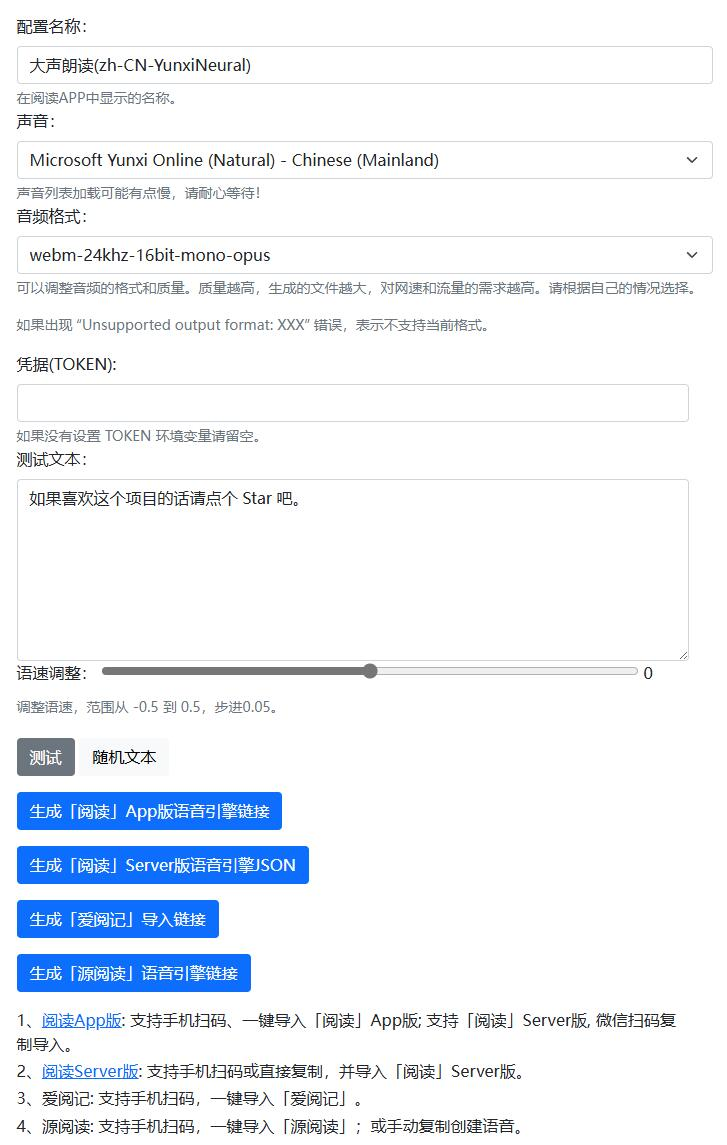
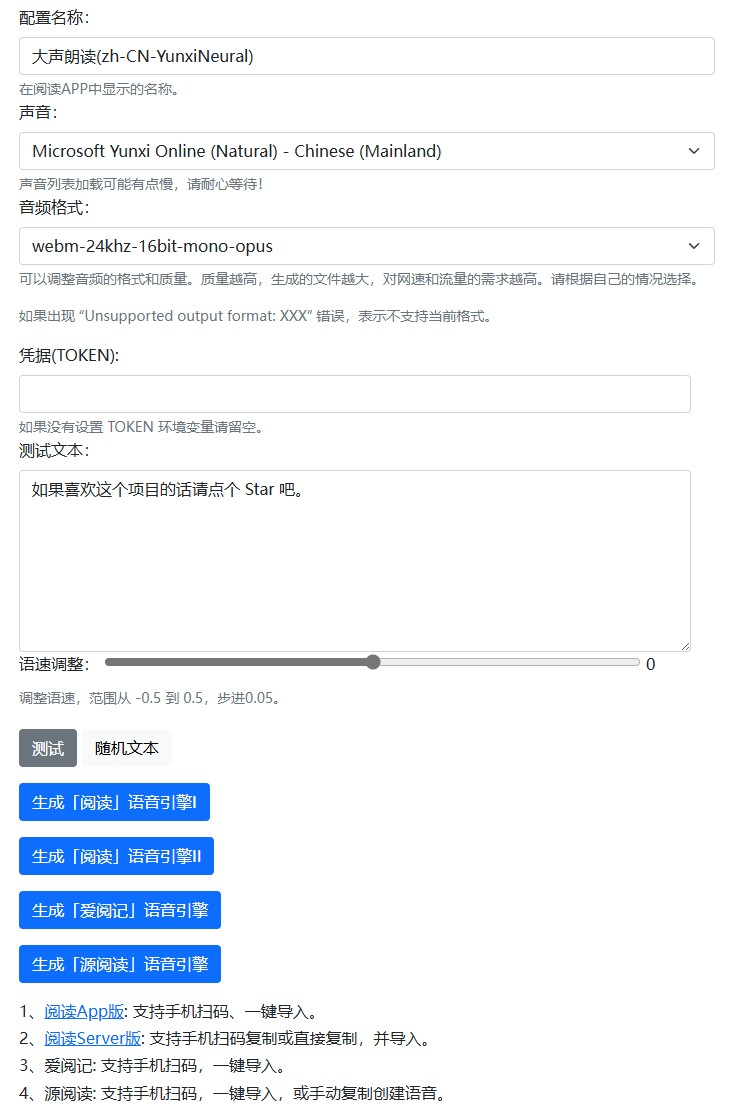
Add another interface to import the TTS engine into the legado app.

diff --git a/public/index.html b/public/index.html
@@ -108,26 +108,25 @@
               onclick="getDailyNews()">随机文本</button>
           </div>
           <div class="col-12 mb-3">
-            <button type="button" class="btn btn-primary" onclick='createlegadoApp()'>生成「阅读」App版语音引擎链接</button>
+            <button type="button" class="btn btn-primary" onclick='createlegadoApp()'>生成「阅读」语音引擎I</button>
           </div>
           <div class="col-12 mb-3">
-            <button type="button" class="btn btn-primary" onclick='createlegadoServer()'>生成「阅读」Server版语音引擎JSON</button>
+            <button type="button" class="btn btn-primary" onclick='createReaderServer()'>生成「阅读」语音引擎II</button>
           </div>
           <div class="col-12 mb-3">
-            <button type="button" class="btn btn-primary" onclick='createiRead()'>生成「爱阅记」导入链接</button>
+            <button type="button" class="btn btn-primary" onclick='createiRead()'>生成「爱阅记」语音引擎</button>
           </div>
           <div class="col-12 mb-3">
-            <button type="button" class="btn btn-primary" onclick='createSourceRead()'>生成「源阅读」语音引擎链接</button>
+            <button type="button" class="btn btn-primary" onclick='createSourceRead()'>生成「源阅读」语音引擎</button>
           </div>
         </div>
         <div class="row">
           <div class="col">
-            <p style="margin-bottom: 0.2rem;">1、<a href="https://github.com/gedoor/legado">阅读App版</a>:
-              支持手机扫码、一键导入「阅读」App版; 支持「阅读」Server版, 微信扫码复制导入。</p>
+            <p style="margin-bottom: 0.2rem;">1、<a href="https://github.com/gedoor/legado">阅读App版</a>: 支持手机扫码、一键导入。</p>
             <p style="margin-bottom: 0.2rem;">2、<a href="https://github.com/hectorqin/reader">阅读Server版</a>:
-              支持手机扫码或直接复制，并导入「阅读」Server版。</p>
-            <p style="margin-bottom: 0.2rem;">3、爱阅记: 支持手机扫码，一键导入「爱阅记」。</p>
-            <p style="margin-bottom: 0.2rem;">4、源阅读: 支持手机扫码，一键导入「源阅读」；或手动复制创建语音。</p>
+              支持手机扫码复制或直接复制，并导入。</p>
+            <p style="margin-bottom: 0.2rem;">3、爱阅记: 支持手机扫码，一键导入。</p>
+            <p style="margin-bottom: 0.2rem;">4、源阅读: 支持手机扫码，一键导入，或手动复制创建语音。</p>
           </div>
         </div>
       </div>
@@ -139,7 +138,7 @@
     <div class="modal-dialog modal-lg">
       <div class="modal-content">
         <div class="modal-header">
-          <h5 class="modal-title">「阅读」App版链接</h5>
+          <h5 class="modal-title">「阅读」链接</h5>
           <button type="button" class="btn-close" data-bs-dismiss="modal" aria-label="Close"></button>
         </div>
         <div class="modal-body">
@@ -147,42 +146,52 @@
           <div class="row">
             <textarea id="legadoAppUrl" class="form-control" readonly rows="3" cols="2" value></textarea>
           </div>
-          <div class="form-text">支持复制链接->阅读APP->朗读->设置->朗读引擎->网络导入</div>
+          <div class="form-text">阅读APP: 支持复制链接->阅读APP->朗读->设置->朗读引擎->网络导入</div>
           <div class="row" style="margin-top: 5px; margin-bottom: 10px;">
-            <a id="legadoUrlButton" class="btn btn-primary" href="#"
-              onclick="copyToClipboard('legadoAppUrl')">复制链接至剪贴板</a>
+            <a id="legadoUrlButton" class="btn btn-primary" href="#" onclick="copyToClipboard('legadoAppUrl')">复制链接</a>
+          </div>
+          <div class="row" style="margin-top: 5px; margin-bottom: 10px;">
+            <a id="legadoImportButton" class="btn btn-primary" href="">一键导入阅读APP</a>
           </div>
           <div class="row">
             <textarea id="legadoApp" class="form-control" readonly rows="3" cols="2" value></textarea>
           </div>
+          <div class="form-text">阅读服务器版: 支持复制链接->阅读页面->HttpTTS管理->添加</div>
           <div class="row" style="margin-top: 5px; margin-bottom: 10px;">
-            <a id="legadoJSONButton" class="btn btn-primary" href="#"
-              onclick="copyToClipboard('legadoApp')">复制JSON至剪贴板</a>
-          </div>
-          <div class="row" style="margin-top: 5px; margin-bottom: 10px;">
-            <a id="legadoImportButton" class="btn btn-primary" href="">一键导入到阅读APP</a>
+            <a id="legadoJSONButton" class="btn btn-primary" href="#" onclick="copyToClipboard('legadoApp')">复制JSON</a>
           </div>
         </div>
       </div>
     </div>
   </div>
 
-  <div id="legadoServerModal" class="modal " tabindex="-1">
+  <div id="readerServerModal" class="modal " tabindex="-1">
     <div class="modal-dialog modal-lg">
       <div class="modal-content">
         <div class="modal-header">
-          <h5 class="modal-title">「阅读」Server版链接</h5>
+          <h5 class="modal-title">「阅读」链接</h5>
           <button type="button" class="btn-close" data-bs-dismiss="modal" aria-label="Close"></button>
         </div>
         <div class="modal-body">
-          <div id="legadoServerQRCode" style="text-align:center">
-          </div>
+          <div id="readerServerQRCode" style="text-align:center"></div>
           <div class="row">
-            <textarea id="legadoServerUrl" class="form-control" readonly rows="3" cols="2" value></textarea>
+            <textarea id="readerServerUrl" class="form-control" readonly rows="3" cols="2" value></textarea>
+          </div>
+          <div class="form-text">阅读APP: 支持复制链接->阅读APP->朗读->设置->朗读引擎->网络导入</div>
+          <div class="row" style="margin-top: 5px; margin-bottom: 10px;">
+            <a id="readerServerUrlButton" class="btn btn-primary" href="#"
+              onclick="copyToClipboard('readerServerUrl')">复制链接</a>
           </div>
           <div class="row" style="margin-top: 5px; margin-bottom: 10px;">
-            <a id="legadoServerImportButton" class="btn btn-primary" href="#"
-              onclick="copyToClipboard('legadoServerUrl')">复制JSON至剪贴板</a>
+            <a id="readerServerImportButton" class="btn btn-primary" href="">一键导入阅读APP</a>
+          </div>
+          <div class="row">
+            <textarea id="readerServerJSON" class="form-control" readonly rows="3" cols="2" value></textarea>
+          </div>
+          <div class="form-text">阅读服务器版: 支持复制链接->阅读页面->HttpTTS管理->添加</div>
+          <div class="row" style="margin-top: 5px; margin-bottom: 10px;">
+            <a id="readerServerJSONButton" class="btn btn-primary" href="#"
+              onclick="copyToClipboard('readerServerJSON')">复制JSON</a>
           </div>
         </div>
       </div>
@@ -204,7 +213,7 @@
             <textarea id="iReadUrl" class="form-control" readonly rows="3" cols="2" value></textarea>
           </div>
           <div class="row" style="margin-top: 5px; margin-bottom: 10px;">
-            <a id="iReadImportButton" class="btn btn-primary" href="">一键导入到爱阅记</a>
+            <a id="iReadImportButton" class="btn btn-primary" href="">一键导入爱阅记</a>
           </div>
         </div>
       </div>
@@ -227,7 +236,7 @@
           <div class="form-text">支持复制链接->源阅读APP->我的->语音管理->创建语音</div>
           <div class="row" style="margin-top: 5px; margin-bottom: 10px;">
             <a id="SourceReadButton" class="btn btn-primary" href="#"
-              onclick="copyToClipboard('SourceReadUrl')">复制源阅读链接至剪贴板</a>
+              onclick="copyToClipboard('SourceReadUrl')">复制链接</a>
           </div>
         </div>
       </div>
@@ -467,7 +476,7 @@
     }
 
     // 阅读Server版
-    function createlegadoServer() {
+    function createReaderServer() {
       let name = document.getElementsByName('name')[0].value;
       let voiceName = document.getElementsByName('voiceName')[0].value;
       let voiceFormat = document.getElementsByName('voiceFormat')[0].value;
@@ -493,13 +502,18 @@
         "url": reader_url
       };
       let jsonString = JSON.stringify(jsonData, null, 2);
-      let modal = new bootstrap.Modal(document.getElementById('legadoServerModal'));
+      let modal = new bootstrap.Modal(document.getElementById('readerServerModal'));
       modal.show();
-      document.getElementById('legadoServerQRCode').innerHTML = svg;
-      document.getElementById('legadoServerUrl').value = jsonString;
 
-      const SourceReadTextarea = document.getElementById('legadoServerUrl');
-      autoResizeTextarea(SourceReadTextarea);
+      document.getElementById('readerServerQRCode').innerHTML = svg;
+      document.getElementById('readerServerUrl').value = url;
+      document.getElementById('readerServerJSON').value = jsonString;
+      document.getElementById('readerServerImportButton').href = 'legado://import/httpTTS?src=' + encodeURIComponent(url);
+
+      const SourceReadUrlTextarea = document.getElementById('readerServerUrl');
+      autoResizeTextarea(SourceReadUrlTextarea);
+      const SourceReadJSONTextarea = document.getElementById('readerServerJSON');
+      autoResizeTextarea(SourceReadJSONTextarea);
     }
 
     // 爱阅记
